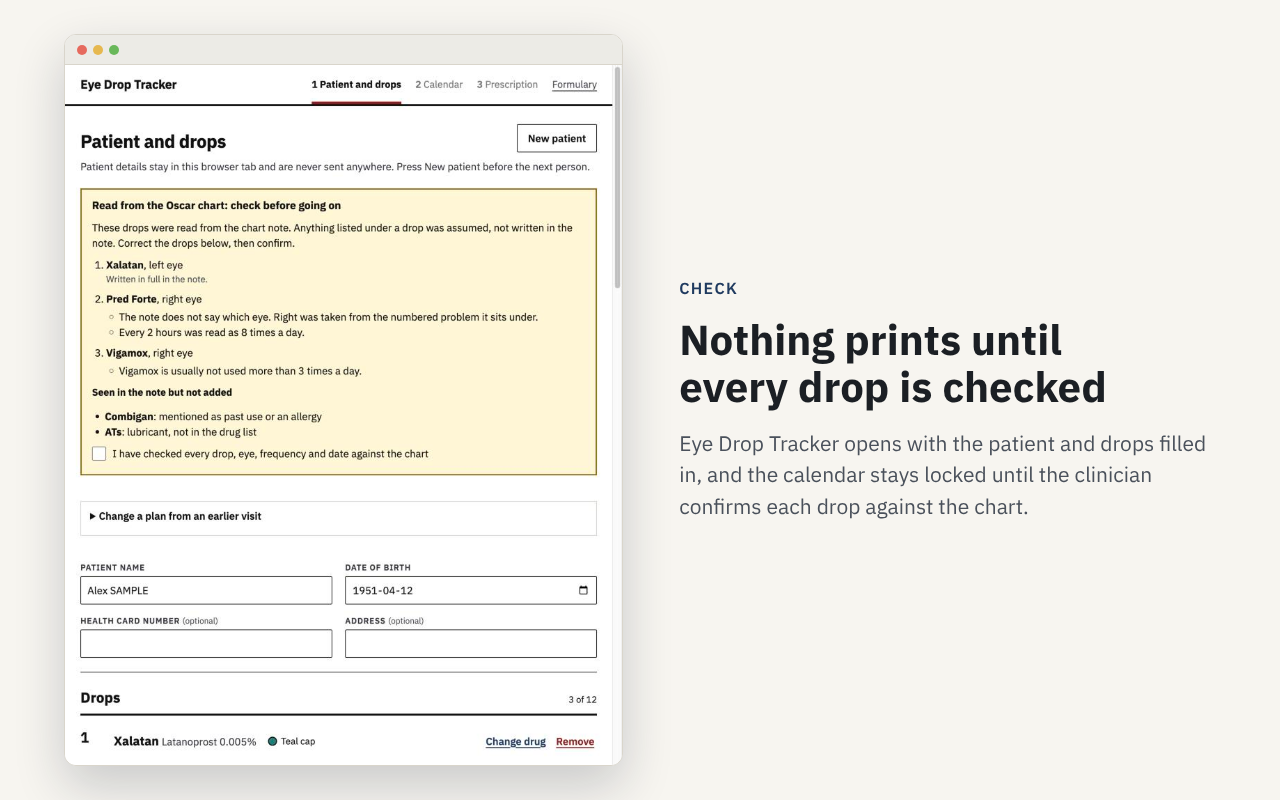
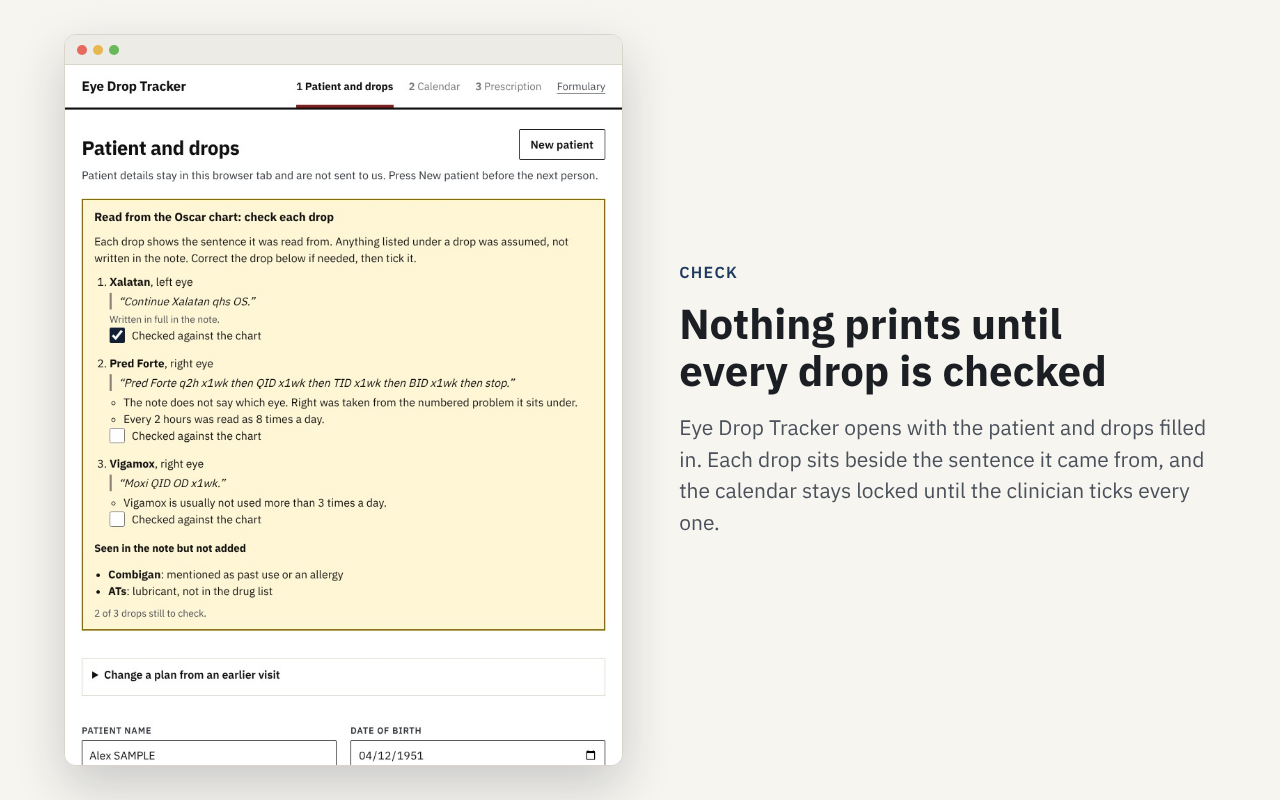
Store screenshot shows per-drop checks, app privacy line corrected
The Chrome Web Store check screenshot is recaptured with a made-up patient
and the new per-drop ticks. The app's privacy line now says patient details
are not sent to us, matching the privacy notice.

Changed region(s): [[0.0625, 0.0938, 0.5, 0.9688], [0.5312, 0.3125, 0.9375, 0.6562]]

diff --git a/src/App.jsx b/src/App.jsx
@@ -113,8 +113,8 @@ function Footer({ patientView }) {
         {!patientView && (
           <p>
             A clinical aid, not a substitute for clinical judgement. Check every calendar and prescription before it goes to a
-            patient. Defaults follow Canadian product monographs and the Ontario Drug Benefit formulary. Patient details are never
-            sent anywhere.
+            patient. Defaults follow Canadian product monographs and the Ontario Drug Benefit formulary. Patient details are not
+            sent to us.
           </p>
         )}
       </div>

diff --git a/src/components/drops/RegimenPage.jsx b/src/components/drops/RegimenPage.jsx
@@ -51,7 +51,7 @@ export default function RegimenPage({ patient, setPatient, drops, setDrops, form
           New patient
         </button>
       </div>
-      <p className="page-note">Patient details stay in this browser tab and are never sent anywhere. Press New patient before the next person.</p>
+      <p className="page-note">Patient details stay in this browser tab and are not sent to us. Press New patient before the next person.</p>
 
       {imported && <ImportReview imported={imported} drops={list} setReviewed={setReviewed} setConfirmed={setConfirmed} />}
 
